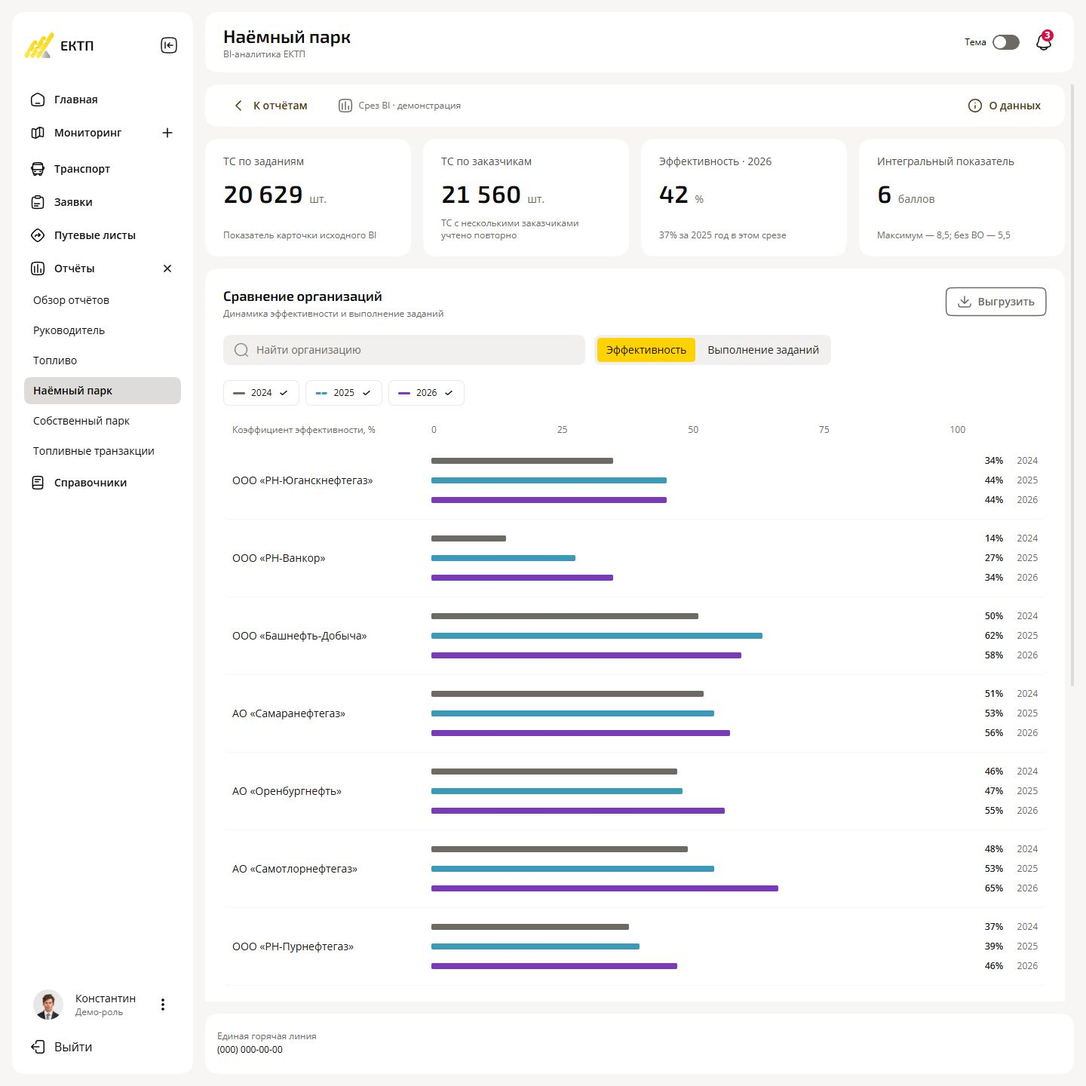
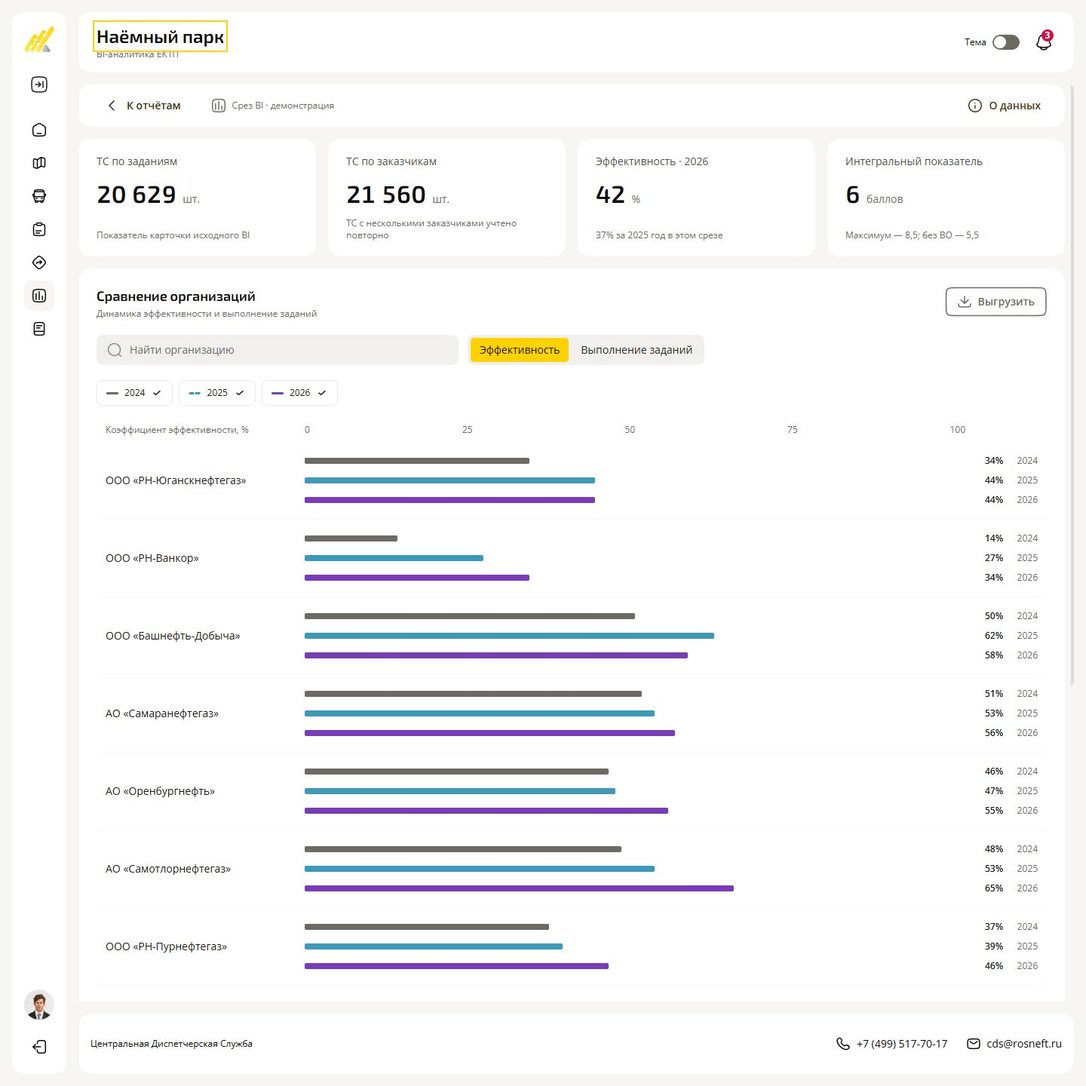
Publish C327-C333 dispatch footer updates

diff --git a/prototype-app/src/App.tsx b/prototype-app/src/App.tsx
@@ -1,3 +1,4 @@
+import DispatchFooter from './ui/DispatchFooter';
 import RingLoader from './ui/RingLoader';
 import RationaleContent from './ui/RationaleContent';
 import Select from './ui/Select';
@@ -19,7 +20,7 @@ import {go,usePath} from './navigation';
 import Klk from './klk/Klk';
 import Ektp from './ektp/Ektp';
 
-function Launcher(){return <Smooth.div className="launcher" data-theme="light"><LauncherBackground/><Smooth.div className="entry-noise" aria-hidden="true"/><Smooth.header><Smooth.span>ЕДИНАЯ ТОЧКА ВХОДА</Smooth.span><Smooth.span className="edition">01–03</Smooth.span></Smooth.header><LauncherHeading/><Smooth.div className="launcher-cards">{launcher.products.map((p:any,i:number)=><div className="launcher-card-frame" key={p.id}><Smooth.section className="launcher-card"><h2>{String(i+1).padStart(2,'0')}</h2><Button size="xl" tone="primary" onClick={()=>go(p.proposedCodeRoute)}>{p.label}</Button><p>{p.launcherDescription}</p><Button size="l" tone="outline" icon="doc" onClick={()=>{sessionStorage.setItem('proto-rationale-back','/');go(p.rationaleCodeRoute);}}>Продуктовое обоснование</Button></Smooth.section></div>)}</Smooth.div><Smooth.footer><Smooth.span>ЕКТП / КЛК</Smooth.span><Smooth.span>Продуктовый дизайн</Smooth.span></Smooth.footer></Smooth.div>;}
+function Launcher(){return <Smooth.div className="launcher" data-theme="light"><LauncherBackground/><Smooth.div className="entry-noise" aria-hidden="true"/><Smooth.header><Smooth.span>ЕДИНАЯ ТОЧКА ВХОДА</Smooth.span><Smooth.span className="edition">01–03</Smooth.span></Smooth.header><LauncherHeading/><Smooth.div className="launcher-cards">{launcher.products.map((p:any,i:number)=><div className="launcher-card-frame" key={p.id}><Smooth.section className="launcher-card"><h2>{String(i+1).padStart(2,'0')}</h2><Button size="xl" tone="primary" onClick={()=>go(p.proposedCodeRoute)}>{p.label}</Button><p>{p.launcherDescription}</p><Button size="l" tone="outline" icon="doc" onClick={()=>{sessionStorage.setItem('proto-rationale-back','/');go(p.rationaleCodeRoute);}}>Продуктовое обоснование</Button></Smooth.section></div>)}</Smooth.div><DispatchFooter/></Smooth.div>;}
 function Reader({kind,variant='1'}:any){
  const ref=useRef<HTMLElement>(null),[section,setSection]=useState('0');
  const anchor=useRef<{node:HTMLElement;offset:number;atEnd:boolean}|null>(null),navigationFocus=useRef(false);
@@ -34,8 +35,8 @@ function Reader({kind,variant='1'}:any){
   <Smooth.div className="reader-contents"><Select aria-label="Перейти к разделу документа" value={section} onChange={(e:any)=>jump(e.target.value)}>{doc.sections.map((s:any,i:number)=><option key={s.id} value={String(i)}>{s.name}</option>)}</Select></Smooth.div>
   <Smooth.div className="reader-layout"><nav aria-label="Содержание">{doc.sections.map((s:any,i:number)=><Smooth.a key={s.id} href={'#section-'+i} aria-current={section===String(i)?'location':undefined} onClick={e=>{e.preventDefault();jump(String(i),true);}}>{s.name}</Smooth.a>)}</nav>
    <Smooth.article ref={ref} className="reader-scroll" tabIndex={0} aria-label="Текст продуктового обоснования" onScroll={()=>{const area=ref.current;if(!area)return;remember();const top=area.getBoundingClientRect().top+48;let current='0';area.querySelectorAll<HTMLElement>(':scope > section').forEach((node,i)=>{if(node.getBoundingClientRect().top<=top)current=String(i);});if(area.scrollHeight-area.clientHeight-area.scrollTop<=1)current=String(doc.sections.length-1);setSection(current);}}>{doc.sections.map((s:any,i:number)=><Smooth.section key={s.id} id={'section-'+i} tabIndex={-1} aria-label={s.name}><RationaleContent section={s}/></Smooth.section>)}</Smooth.article>
-  </Smooth.div><Smooth.button className="top-fab" aria-label="В начало документа" data-tooltip="В начало" onClick={()=>jump('0',true)}>↑</Smooth.button>
+  <Smooth.button className="top-fab" aria-label="В начало документа" data-tooltip="В начало" onClick={()=>jump('0',true)}>↑</Smooth.button></Smooth.div><DispatchFooter/>
  </Smooth.div>;
 }
-function Authentication({product,variant,onSuccess}:any){const [login,setLogin]=useState('demo');const [password,setPassword]=useState('prototype');const [show,setShow]=useState(false);const [attempted,setAttempted]=useState(false);const [loading,setLoading]=useState(false);const timer=useRef<any>(null);useEffect(()=>()=>clearTimeout(timer.current),[]);const isE=product==='ektp';return <Smooth.div className="auth-screen" data-theme="light">{loading?<><LoaderBackground/><Smooth.div className="loading-content" role="status"><RingLoader/><h3>Готовим данные транспорта</h3><p>Ещё немного — и всё появится на экране.</p></Smooth.div></>:<><LoginBackground/><Smooth.div className="entry-noise" aria-hidden="true"/><Smooth.section className="auth-introduction"><h1>{isE?<>Добро пожаловать<br/>в Единую корпоративную<br/>телематическую платформу!</>:<>Добро пожаловать<br/>в коммерческий<br/>личный кабинет!</>}</h1><p>{isE?<>Мониторинг транспорта на карте,<br/>история движения и данные телематики.</>:<>Работайте с заявками и заданиями, назначайте транспорт и водителей, просматривайте состояние автопарка и справочники организации.</>}</p></Smooth.section><div className="login-card-frame"><Smooth.form className="login-card" onSubmit={e=>{e.preventDefault();setAttempted(true);if(!login.trim()||!password){(e.currentTarget as HTMLFormElement).querySelector<HTMLInputElement>(!login.trim()?'input[autocomplete=username]':'input[autocomplete=current-password]')?.focus();return;}setLoading(true);timer.current=setTimeout(()=>{sessionStorage.setItem('proto-auth-'+product,'true');onSuccess();},isE?3000:2000);}}><Smooth.div className="login-brand"><Smooth.img src={asset('launcher.imgLogoLight')} alt=""/><h2>{isE?'ЕКТП':'КЛК'}</h2></Smooth.div><h3>Вход</h3><p>{isE?'Единая корпоративная телематическая платформа':'Коммерческий личный кабинет'}</p><Field label="Логин" error={attempted&&!login.trim()?'Введите логин':null}><Smooth.input autoComplete="username" placeholder="Введите логин" value={login} onChange={e=>setLogin(e.target.value)}/></Field><Field label="Пароль" error={attempted&&!password?'Введите пароль':null}><Smooth.div className="password-field"><Smooth.input aria-label="Пароль" type={show?'text':'password'} autoComplete="current-password" placeholder="Введите пароль" value={password} onChange={e=>{setPassword(e.target.value);if(!e.target.value)setShow(false);}}/><Smooth.button type="button" aria-label={show?'Скрыть пароль':'Показать пароль'} aria-pressed={show} disabled={!password.length} onClick={()=>setShow(!show)}><Icon name={show?'eyeOff':'eye'}/></Smooth.button></Smooth.div></Field><Button type="submit" tone="primary">Войти</Button></Smooth.form></div><Smooth.footer><Smooth.span>Все права защищены.</Smooth.span><Smooth.span>Единая горячая линия: (000) 000-00-00</Smooth.span></Smooth.footer></>}</Smooth.div>;}
+function Authentication({product,variant,onSuccess}:any){const [login,setLogin]=useState('demo');const [password,setPassword]=useState('prototype');const [show,setShow]=useState(false);const [attempted,setAttempted]=useState(false);const [loading,setLoading]=useState(false);const timer=useRef<any>(null);useEffect(()=>()=>clearTimeout(timer.current),[]);const isE=product==='ektp';return <Smooth.div className="auth-screen" data-theme="light">{loading?<><LoaderBackground/><Smooth.div className="loading-content" role="status"><RingLoader/><h3>Готовим данные транспорта</h3><p>Ещё немного — и всё появится на экране.</p></Smooth.div></>:<><LoginBackground/><Smooth.div className="entry-noise" aria-hidden="true"/><Smooth.section className="auth-introduction"><h1>{isE?<>Добро пожаловать<br/>в Единую корпоративную<br/>телематическую платформу!</>:<>Добро пожаловать<br/>в коммерческий<br/>личный кабинет!</>}</h1><p>{isE?<>Мониторинг транспорта на карте,<br/>история движения и данные телематики.</>:<>Работайте с заявками и заданиями, назначайте транспорт и водителей, просматривайте состояние автопарка и справочники организации.</>}</p></Smooth.section><div className="login-card-frame"><Smooth.form className="login-card" onSubmit={e=>{e.preventDefault();setAttempted(true);if(!login.trim()||!password){(e.currentTarget as HTMLFormElement).querySelector<HTMLInputElement>(!login.trim()?'input[autocomplete=username]':'input[autocomplete=current-password]')?.focus();return;}setLoading(true);timer.current=setTimeout(()=>{sessionStorage.setItem('proto-auth-'+product,'true');onSuccess();},isE?3000:2000);}}><Smooth.div className="login-brand"><Smooth.img src={asset('launcher.imgLogoLight')} alt=""/><h2>{isE?'ЕКТП':'КЛК'}</h2></Smooth.div><h3>Вход</h3><p>{isE?'Единая корпоративная телематическая платформа':'Коммерческий личный кабинет'}</p><Field label="Логин" error={attempted&&!login.trim()?'Введите логин':null}><Smooth.input autoComplete="username" placeholder="Введите логин" value={login} onChange={e=>setLogin(e.target.value)}/></Field><Field label="Пароль" error={attempted&&!password?'Введите пароль':null}><Smooth.div className="password-field"><Smooth.input aria-label="Пароль" type={show?'text':'password'} autoComplete="current-password" placeholder="Введите пароль" value={password} onChange={e=>{setPassword(e.target.value);if(!e.target.value)setShow(false);}}/><Smooth.button type="button" aria-label={show?'Скрыть пароль':'Показать пароль'} aria-pressed={show} disabled={!password.length} onClick={()=>setShow(!show)}><Icon name={show?'eyeOff':'eye'}/></Smooth.button></Smooth.div></Field><Button type="submit" tone="primary">Войти</Button></Smooth.form></div><DispatchFooter copyright heading/></>}</Smooth.div>;}
 export default function App(){const path=usePath();const [authVersion,setAuthVersion]=useState(0);const reduced=useReducedMotion();useEffect(()=>{const h=()=>setAuthVersion(v=>v+1);window.addEventListener('proto-logout',h);return()=>window.removeEventListener('proto-logout',h);},[]);let page:any;if(path==='/')page=<Launcher/>;else if(path.startsWith('/rationale/'))page=<Reader kind={path.split('/')[2]} variant={path.split('/')[3]}/>;else if(path.startsWith('/ektp')||path.startsWith('/klk/')){const product=path.startsWith('/ektp')?'ektp':'klk',variant=path.split('/')[2]||'1';page=path.endsWith('/error')?<ApplicationError product={product} variant={variant}/>:sessionStorage.getItem('proto-auth-'+product)?product==='ektp'?<Ektp/>:<Klk key={variant} variant={variant}/>:<Authentication key={product+variant+authVersion} product={product} variant={variant} onSuccess={()=>setAuthVersion(v=>v+1)}/>;}else page=<Smooth.div className="not-found"><h1>Страница не найдена</h1><Button onClick={()=>go('/')}>На главную</Button></Smooth.div>;return <><TooltipHost/><AnimatePresence mode="wait" initial={false}><motion.div key={path==='/'?'launcher':path.startsWith('/rationale')?path:path.split('/').slice(0,3).join('/')} className="route-root" initial={{opacity:reduced?1:0}} animate={{opacity:1}} exit={{opacity:reduced?1:0}} transition={{duration:reduced?0:.3,ease:'easeInOut'}}><ApplicationErrorBoundary key={authVersion} product={path.startsWith('/ektp')?'ektp':'klk'} variant={path.split('/')[2]||'1'}>{page}</ApplicationErrorBoundary></motion.div></AnimatePresence></>;}

diff --git a/prototype-app/src/ui/Shell.tsx b/prototype-app/src/ui/Shell.tsx
@@ -1,3 +1,4 @@
+import DispatchFooter,{DispatchContacts} from './DispatchFooter';
 import SystemAlert from './SystemAlert';
 import {resetDemoWorkflows} from './useDemoWorkflow';
 import {PopoverPresence} from './PopoverSurface';
@@ -24,11 +25,11 @@ export default function Shell({product='klk',variant='1',section,children,object
  {!(isE&&hideObjectScope)&&(isE?<Smooth.div className={objectContextCaption?"ektp-context-caption":"ektp-context-select"}>{objectContextCaption&&<small>{objectContextCaption}</small>}<Select readOnly={objectReadOnly} aria-label="Организация просмотра" data-tooltip={objectContextCaption||"Показать транспорт и отчёты выбранного юридического лица"} value={object} onChange={e=>onObject(e.target.value)}><option value="">Юридические лица</option>{objects.map((o:any)=><option key={o.id} value={o.id}>{o.name}</option>)}</Select></Smooth.div>:<NavigationSearch labels={labels} onNavigate={onNavigate}/>)}
  {(variant==='1'&&!isE)&&<Smooth.button className="profile-header" data-tooltip="Профиль, настройки и выход из кабинета" onClick={openProfile} aria-label="Меню пользователя"><Smooth.img alt="" src={asset('ui.userAvatar')}/><Smooth.span><Smooth.b>Константин<Smooth.span className="profile-surname"> Сергеенов</Smooth.span></Smooth.b><small>{demoRole}</small></Smooth.span></Smooth.button>}
  {(isE||variant==='1')&&<Smooth.button role="switch" aria-checked={theme==='dark'} className="theme-switch" aria-label="Тёмная тема" data-tooltip={theme==='dark'?'Переключить интерфейс на светлую тему':'Переключить интерфейс на тёмную тему'} onClick={()=>changeTheme(theme==='dark'?'light':'dark')}><Smooth.span>Тема</Smooth.span><Smooth.i/></Smooth.button>}<Smooth.button className="notification-button" aria-label="Уведомления" data-tooltip={isE?'Открыть уведомления об обновлениях данных и положении транспорта':'Открыть уведомления кабинета'} onClick={()=>setMenu('notifications')}><Icon name="bell" size={24}/>{notifications.filter((n:any)=>!noticeRead.includes(n.id)).length>0&&<Smooth.b>{notifications.filter((n:any)=>!noticeRead.includes(n.id)).length}</Smooth.b>}</Smooth.button></Smooth.header>
- <main id="main-content" className="workspace" tabIndex={-1}>{children}</main><Smooth.footer className="app-footer"><Smooth.span><small>Единая горячая линия</small>(000) 000-00-00</Smooth.span></Smooth.footer></Smooth.div>
+ <main id="main-content" className="workspace" tabIndex={-1}>{children}</main><DispatchFooter className="app-footer"/></Smooth.div>
  {drawer&&<Modal title="Навигация" drawer onClose={()=>setDrawer(false)}><Smooth.div className="drawer-nav">{navigation(true)}</Smooth.div></Modal>}
  <PopoverPresence>{menu==='profile'&&profileAnchor&&<UserMenu key="profile-menu" anchor={profileAnchor} theme={theme} onTheme={changeTheme} onClose={()=>setMenu('')} onProfile={()=>{setDrawer(false);setMenu('profile-details');}} onSupport={()=>{setDrawer(false);setMenu('support');}} onLogout={logout}/>}</PopoverPresence>
  {menu==='profile-details'&&<Modal title="Профиль" className="profile-dialog" returnFocus=".profile-header,.sidebar .profile-mini,.burger" onClose={()=>setMenu('')} footer={<Smooth.div className="profile-action-group"><Button size="l" tone="primary" onClick={()=>setMenu('profile-settings')}>Профиль и настройки</Button><ActionRow><Button size="l" onClick={()=>{resetDemoWorkflows();onReset();setMenu('');}}>Сбросить состояния прототипа</Button><Button size="l" tone="gray-tertiary" onClick={()=>setMenu('')}>Готово</Button></ActionRow></Smooth.div>}><Smooth.div className="profile-large"><Smooth.img src={asset('ui.userAvatar')} alt=""/><Smooth.div><h3>{isE?'Константинов Константин':'Константин Сергеенов'}</h3><p>{demoRole}</p></Smooth.div></Smooth.div><p>Телефон: (000) 000-00-00</p></Modal>}
  {menu==='profile-settings'&&<Modal title="Профиль и настройки" className="profile-dialog" onClose={()=>setMenu('profile-details')} footer={<Button tone="primary" onClick={()=>setMenu('profile-details')}>Готово</Button>}><dl><dt>Пользователь</dt><dd>{isE?'Константинов Константин':'Константин Сергеенов'}</dd><dt>Роль</dt><dd>{demoRole}</dd><dt>Телефон</dt><dd>(000) 000-00-00</dd></dl><Smooth.div className="profile-theme-setting"><Smooth.span>Тёмная тема</Smooth.span><Smooth.button type="button" role="switch" aria-label="Тёмная тема" aria-checked={theme==='dark'} className="theme-switch" onClick={()=>changeTheme(theme==='dark'?'light':'dark')}><Smooth.i/></Smooth.button></Smooth.div></Modal>}
  {menu==='notifications'&&<Modal title="Уведомления" drawer className={isE?'notifications-dialog':''} onClose={()=>setMenu('')} footer={notifications.length>0&&<Button size={isE?'L':'M'} tone="outline" disabled={notifications.every((n:any)=>noticeRead.includes(n.id))} onClick={()=>setNoticeRead(notifications.map((n:any)=>n.id))}>Прочитать все</Button>}><p role="status" aria-live="polite">{notifications.filter((n:any)=>!noticeRead.includes(n.id)).length} непрочитанных</p>{notifications.length?notifications.map((n:any)=><Smooth.button key={n.id} className="notification-item" onClick={()=>{setNoticeRead([...new Set([...noticeRead,n.id])]);setMenu('');onNotification?.(n);}}><Smooth.img className="notification-art" src={'/assets/figma/'+(n.art||'notification-info')+'.png'} alt=""/><Smooth.span><Smooth.b>{n.title}</Smooth.b><Smooth.span>{n.body}</Smooth.span><small>{n.displayDate}</small><small className={noticeRead.includes(n.id)?'notice-read':'notice-unread'}>{noticeRead.includes(n.id)?'Прочитано':'Не прочитано'}</small></Smooth.span><Icon name="forward"/></Smooth.button>):<Smooth.div className="feedback-message"><Smooth.img className="feedback-art" src="/assets/figma/feedback-info.png" alt=""/><p>Новых уведомлений нет</p></Smooth.div>}</Modal>}
- {menu==='support'&&<Modal art="info" title={menu==='support'?'Поддержка':'Мобильное приложение'} onClose={()=>setMenu('')} footer={<Button onClick={()=>setMenu('')}>Закрыть</Button>}><p>{menu==='support'?'Единая горячая линия: (000) 000-00-00':'Ссылка на установку приложения не предоставлена.'}</p></Modal>}</Smooth.div></AppThemeContext.Provider>;
+ {menu==='support'&&<Modal art="info" title={menu==='support'?'Поддержка':'Мобильное приложение'} onClose={()=>setMenu('')} footer={<Button onClick={()=>setMenu('')}>Закрыть</Button>}><p className="dispatch-support"><DispatchContacts/></p></Modal>}</Smooth.div></AppThemeContext.Provider>;
 }

diff --git a/prototype-app/src/design-system/components.css b/prototype-app/src/design-system/components.css
@@ -302,7 +302,8 @@ html.theme-atomic::view-transition-new(root){animation:theme-page-in 1000ms ease
 
 .linked-record>.direction-icon,.related-vehicle>.direction-icon,.attention-row>.direction-icon,.notification-item>.direction-icon{align-self:center}
 
-.kpi-info,.summary-drag-handle{color:var(--content-neutral-low)}
+.kpi-info{color:var(--content-neutral-low)}
+.summary-drag-handle{color:var(--content-neutral-higher);opacity:1}
 .kpi-info:hover:not(:disabled),.summary-drag-handle:hover{color:var(--interaction-neutral-primary-hover)}
 .summary-card.reordering{user-select:none}
 
@@ -495,6 +496,25 @@ html.theme-atomic::view-transition-new(root){animation:theme-page-in 1000ms ease
 .batch-toolbar>.batch-buttons{width:var(--registry-trailing-width,360px);max-width:100%;margin:0}
 .ektp-registry>.batch-toolbar>.batch-buttons{margin-left:auto}
 @media(max-width:1100px){.ektp-registry{--registry-trailing-width:100%}.ektp-registry-filters>.search{order:-1;flex:1 0 100%;margin-left:0}}
+
+/* One contact surface for product screens, entry pages and rationale readers. */
+footer.dispatch-footer,.launcher>footer.dispatch-footer,.auth-screen>footer.dispatch-footer{display:flex;align-items:center;flex-wrap:wrap;gap:8px 24px;color:var(--text);font-size:14px;line-height:20px}
+.app-footer.dispatch-footer{height:auto;min-height:80px;padding:16px}
+.dispatch-name{flex:1 1 260px;min-width:0}
+.dispatch-contact{display:inline-flex;align-items:center;gap:8px;min-height:40px;flex:none;white-space:nowrap;color:inherit;text-decoration:none;text-underline-offset:4px}
+.dispatch-contact:hover{text-decoration:underline}
+.dispatch-contact:focus-visible{outline:2px solid var(--accent);outline-offset:4px;border-radius:4px}
+.dispatch-copyright{flex-basis:100%;font-size:12px;line-height:16px;color:var(--muted)}
+.auth-screen:has(>.auth-introduction)>footer.dispatch-footer{display:grid;grid-template-columns:max-content max-content;justify-content:start;gap:0 24px}
+.auth-screen>footer.dispatch-footer>.dispatch-name,.auth-screen>footer.dispatch-footer>.dispatch-copyright{grid-column:1/-1}
+.auth-screen>footer.dispatch-footer>.dispatch-name{margin:0;font-size:16px;line-height:24px;font-weight:600}
+.auth-screen>footer.dispatch-footer>.dispatch-copyright{margin-top:4px}
+.dispatch-support{display:flex;flex-wrap:wrap;align-items:center;gap:8px 24px}
+.dispatch-support>.dispatch-name{flex-basis:100%}
+.reader>.dispatch-footer{flex:none;padding:8px 16px;background:var(--surface);border-radius:16px}
+.reader-layout{position:relative}
+.reader .top-fab{position:absolute;right:24px;bottom:24px}
+@media(max-width:600px){.dispatch-name{flex-basis:100%}.auth-screen>footer.dispatch-footer{left:24px;right:24px;bottom:16px}}
 .batch-delete-dialog .dialog-content{display:flex;flex-direction:column;gap:24px}
 .batch-delete-dialog .dialog-content>.feedback-art{margin:0 auto;flex:none}
 .batch-delete-dialog .dialog-content>.empty-copy{margin:0;text-align:center}

diff --git a/prototype-app/src/ui/DispatchFooter.tsx b/prototype-app/src/ui/DispatchFooter.tsx
@@ -1,0 +1,22 @@
+import Smooth from './Smooth';
+import {Icon} from './index';
+
+export const dispatchContacts={
+ name:'Центральная Диспетчерская Служба',
+ phone:'+7 (499) 517-70-17',
+ phoneHref:'tel:+74995177017',
+ email:'cds@rosneft.ru',
+};
+
+export function DispatchContacts({heading=false}: {heading?:boolean}={}){
+ const Name=heading?'h2':Smooth.span;
+ return <>
+  <Name className="dispatch-name">{dispatchContacts.name}</Name>
+  <Smooth.a className="dispatch-contact" href={dispatchContacts.phoneHref} data-typography="literal"><Icon name="ui.dispatchPhoneS" size={20}/>{dispatchContacts.phone}</Smooth.a>
+  <Smooth.a className="dispatch-contact" href={'mailto:'+dispatchContacts.email} data-typography="literal"><Icon name="ui.dispatchLetterS" size={20}/>{dispatchContacts.email}</Smooth.a>
+ </>;
+}
+
+export default function DispatchFooter({className='',copyright=false,heading=false}:any){
+ return <Smooth.footer className={`dispatch-footer ${className}`}><DispatchContacts heading={heading}/>{copyright&&<small className="dispatch-copyright">Все права защищены.</small>}</Smooth.footer>;
+}
